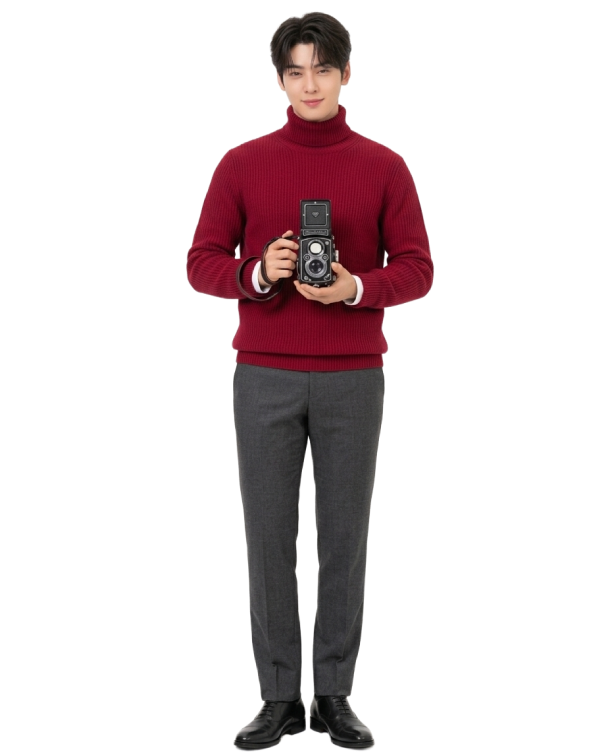
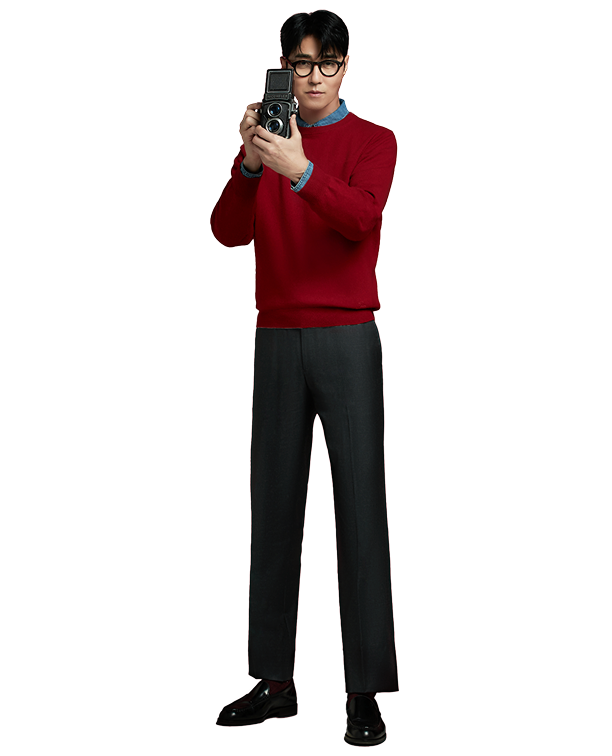
commit-1120-1

Changed region(s): [[0.2794, 0.0, 0.7141, 1.0]]

diff --git a/campaign_2027_home.html b/campaign_2027_home.html
@@ -16,7 +16,7 @@
       "three/addons/": "./lib/three/examples/jsm/",
       "gsap": "./lib/gsap/index.js",
       "gsap/": "./lib/gsap/",
-      "lenis": "./lib/lenis/lenis.mjs"
+      "lenis": "./lib/lenis/lenis.js"
     }
   }
   </script>

diff --git a/lib/lenis/lenis.js b/lib/lenis/lenis.js
@@ -1013,4 +1013,4 @@ var Lenis = class {
 //#endregion
 export { Lenis as default };
 
-//# sourceMappingURL=lenis.mjs.map
+//# sourceMappingURL=lenis.js.map
